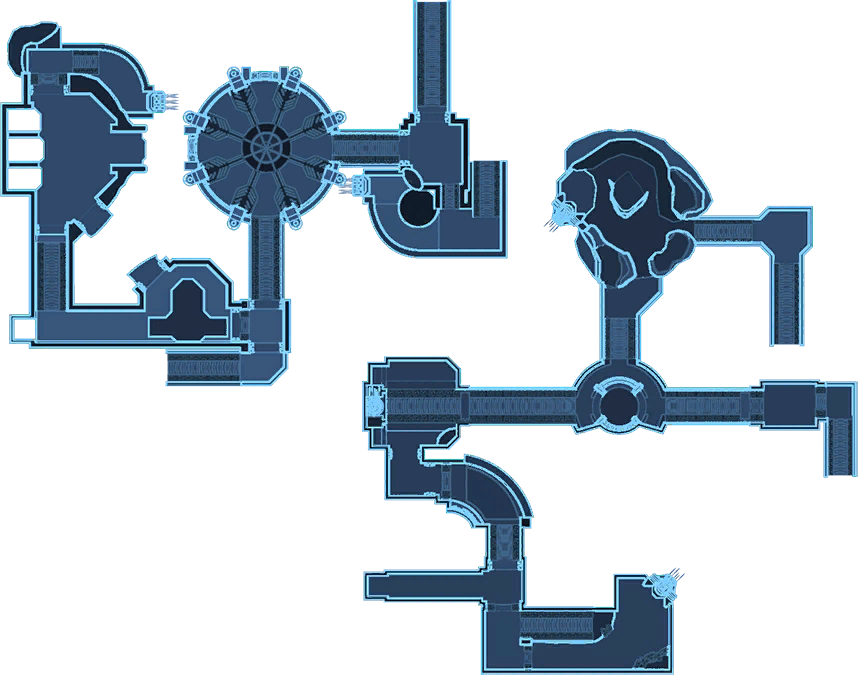
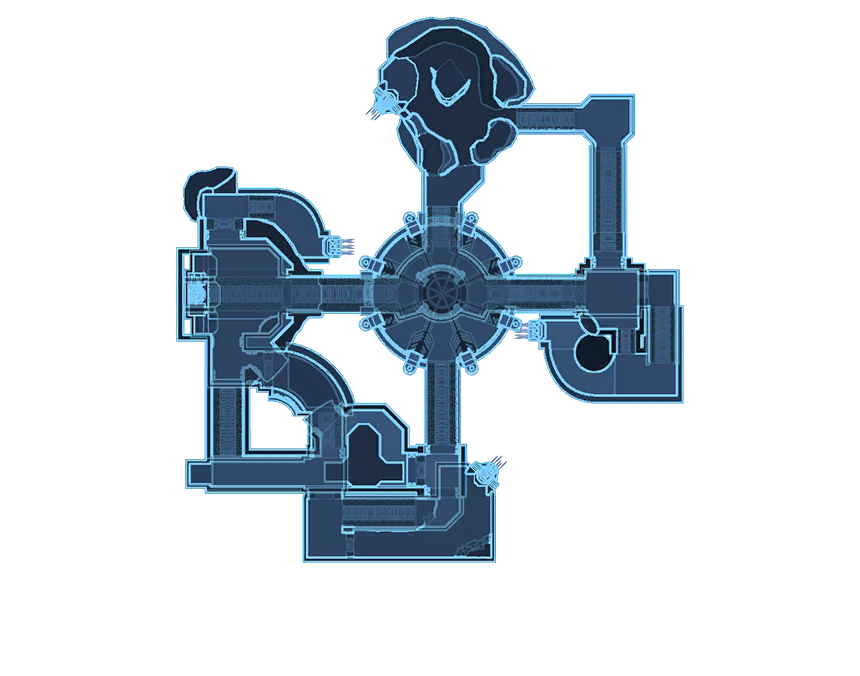
Uses server map, fixed guardian. changed names

diff --git a/js/dewrito.js b/js/dewrito.js
@@ -1196,9 +1196,11 @@ function startgame(ip, mode) {
 	$('#music')[0].pause();
 	$('#black').fadeIn(3000);
 	delay(function() {
-		$('#loading').show();
 		if (mode[0] === "JOIN") {
 			dewRcon.send('connect ' + ip + ' ' + password);
+			$('#loadingMapImage').css('background-image','url(./img/loading/maps/' + servers[selectedserver].map.toString().toLowerCase() + '.png)');
+			$('#mapOverlay').css('background-image','url(./img/loading/maps/' + servers[selectedserver].map.toString().toLowerCase() + '-overlay.png)');
+			$('#loading').show();
 			$('#back').remove();
 		} else if (mode[1] === "FORGE") {
 
